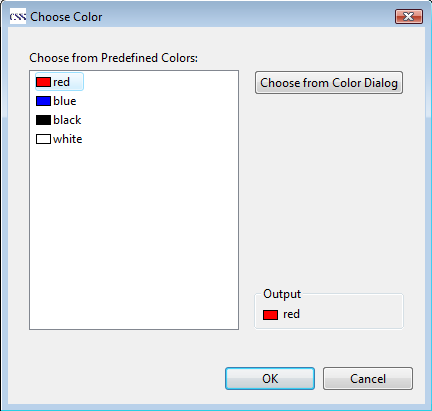
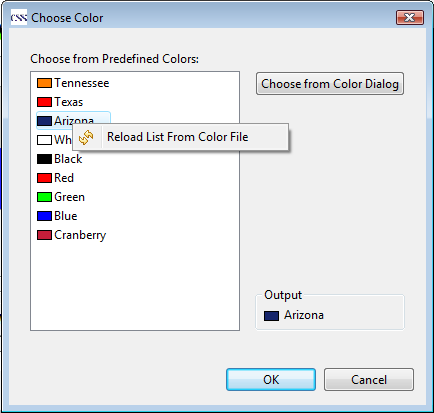
allow reloading color or font list from select dialog

diff --git a/applications/plugins/org.csstudio.opibuilder/html/Color_Font_Macro.html b/applications/plugins/org.csstudio.opibuilder/html/Color_Font_Macro.html
@@ -13,22 +13,32 @@
     </h2>
     <p>Color and Font macro allow you predefined some colors or fonts in separate text files.
      The path of the file can be specified in the preference page of BOY (open it from menu: 
-     <b>CSS->Preferences...->CSS Applications->Display->BOY</b>. A restart is needed to make changes take effect).
+     <b>CSS->Preferences...->CSS Applications->Display->BOY</b>).
     </p>
      <h3>Format of Color File</h3>
      <p>
      The format of color file would like this:
      </p>
      <pre class="example_code">
+#comment...
 color_name1=red_value, green_value, blue_value
+#comment...
 color_name2=red_value, green_value, blue_value
 ...</pre>
      <p>For example:</p>
      <pre class="example_code">
-red = 255,0,0
-blue = 0,0,255
-black = 0,0,0
-white = 255,255,255</pre>
+#Color of Tennessee
+Tennessee = 255,127,0
+#Color of Texas
+Texas = 255,0,0
+Arizona = 22,37,107
+White = 255,255,255
+Black = 0,0,0
+Red = 255,0,0
+Green = 0,255,0
+Blue = 0,0,255
+Cranberry = 196,30,58</pre>
+<p>Right click the predifined color list will popup a menu which allows reloading the list from color file.</p>
      <p><img src="img/ColorMacro.png">
      </p>
  <h3>Format of Font File</h3>
@@ -36,14 +46,22 @@ white = 255,255,255</pre>
      The format of font file would like this:
      </p>
      <pre class="example_code">
+#comment...
 font_name1 = name-style-height
+#comment...
 font_name2 = name-style-height
 ...</pre>
      <p>For example:</p>
      <pre class="example_code">
 Header = Aial-bold-18
 Text = Arial-regular-10
-LinkText = Arial-italic-10</pre>
+LinkText = Arial-italic-10
+
+#Use OS system default font name
+SystemHeader = SystemDefault-bold-18
+SystemText = SystemDefault-regular-10
+SystemLinkText = SystemDefault-italic-10</pre>
+<p>Right click the predifined fonts list will popup a menu which allows reloading the list from font file.</p>
 <p><img src="img/FontMacro.png"></p>
   
 </body>

diff --git a/applications/plugins/org.csstudio.opibuilder/src/org/csstudio/opibuilder/visualparts/OPIColorDialog.java b/applications/plugins/org.csstudio.opibuilder/src/org/csstudio/opibuilder/visualparts/OPIColorDialog.java
@@ -1,7 +1,11 @@
 package org.csstudio.opibuilder.visualparts;
 
+import org.csstudio.opibuilder.OPIBuilderPlugin;
 import org.csstudio.opibuilder.util.MediaService;
 import org.csstudio.opibuilder.util.OPIColor;
+import org.csstudio.platform.ui.util.CustomMediaFactory;
+import org.eclipse.jface.action.Action;
+import org.eclipse.jface.action.MenuManager;
 import org.eclipse.jface.dialogs.Dialog;
 import org.eclipse.jface.viewers.ISelectionChangedListener;
 import org.eclipse.jface.viewers.IStructuredSelection;
@@ -103,7 +107,6 @@ public class OPIColorDialog extends Dialog {
 			}
 		});
 		
-		
 		Group group = new Group(rightComposite, SWT.None);
 		group.setLayoutData(new GridData(SWT.FILL, SWT.END, true, true));
 		group.setLayout(new GridLayout(2, false));
@@ -146,6 +149,10 @@ public class OPIColorDialog extends Dialog {
 		});
 		viewer.getTable().setLayoutData(
 				new GridData(SWT.FILL, SWT.FILL, true, true));
+
+		MenuManager menuManager = new MenuManager();
+		menuManager.add(new ReloadColorFileAction());
+		viewer.getTable().setMenu(menuManager.createContextMenu(viewer.getTable()));
 		return viewer;
 	}
 	
@@ -182,5 +189,21 @@ public class OPIColorDialog extends Dialog {
 		return opiColor;
 	}
 	
+	class ReloadColorFileAction extends Action{
+		public ReloadColorFileAction() {
+			setText("Reload List From Color File");
+			setImageDescriptor(CustomMediaFactory.getInstance().getImageDescriptorFromPlugin(
+					OPIBuilderPlugin.PLUGIN_ID, "icons/refresh.gif"));
+		}
+		
+		@Override
+		public void run() {
+			MediaService.getInstance().reload();
+			preDefinedColorsViewer.setInput(
+					MediaService.getInstance().getAllPredefinedColors());
+		}
+
+		
+	}
 
 }

diff --git a/applications/plugins/org.csstudio.opibuilder/src/org/csstudio/opibuilder/visualparts/OPIFontDialog.java b/applications/plugins/org.csstudio.opibuilder/src/org/csstudio/opibuilder/visualparts/OPIFontDialog.java
@@ -1,8 +1,11 @@
 package org.csstudio.opibuilder.visualparts;
 
+import org.csstudio.opibuilder.OPIBuilderPlugin;
 import org.csstudio.opibuilder.util.MediaService;
 import org.csstudio.opibuilder.util.OPIFont;
 import org.csstudio.platform.ui.util.CustomMediaFactory;
+import org.eclipse.jface.action.Action;
+import org.eclipse.jface.action.MenuManager;
 import org.eclipse.jface.dialogs.Dialog;
 import org.eclipse.jface.viewers.ISelectionChangedListener;
 import org.eclipse.jface.viewers.IStructuredSelection;
@@ -148,7 +151,10 @@ public class OPIFontDialog extends Dialog {
 			}
 		});
 		viewer.getTable().setLayoutData(
-				new GridData(SWT.FILL, SWT.FILL, true, true));
+				new GridData(SWT.FILL, SWT.FILL, true, true));		
+		MenuManager menuManager = new MenuManager();
+		menuManager.add(new ReloadFontFileAction());
+		viewer.getTable().setMenu(menuManager.createContextMenu(viewer.getTable()));
 		return viewer;
 	}
 	
@@ -184,6 +190,23 @@ public class OPIFontDialog extends Dialog {
 
 	public OPIFont getOutput() {
 		return opiFont;
+	}
+	
+	class ReloadFontFileAction extends Action{
+		public ReloadFontFileAction() {
+			setText("Reload List From Font File");
+			setImageDescriptor(CustomMediaFactory.getInstance().getImageDescriptorFromPlugin(
+					OPIBuilderPlugin.PLUGIN_ID, "icons/refresh.gif"));
+		}
+		
+		@Override
+		public void run() {
+			MediaService.getInstance().reload();
+			preDefinedFontsViewer.setInput(
+					MediaService.getInstance().getAllPredefinedFonts());
+		}
+
+		
 	}
 	
 
